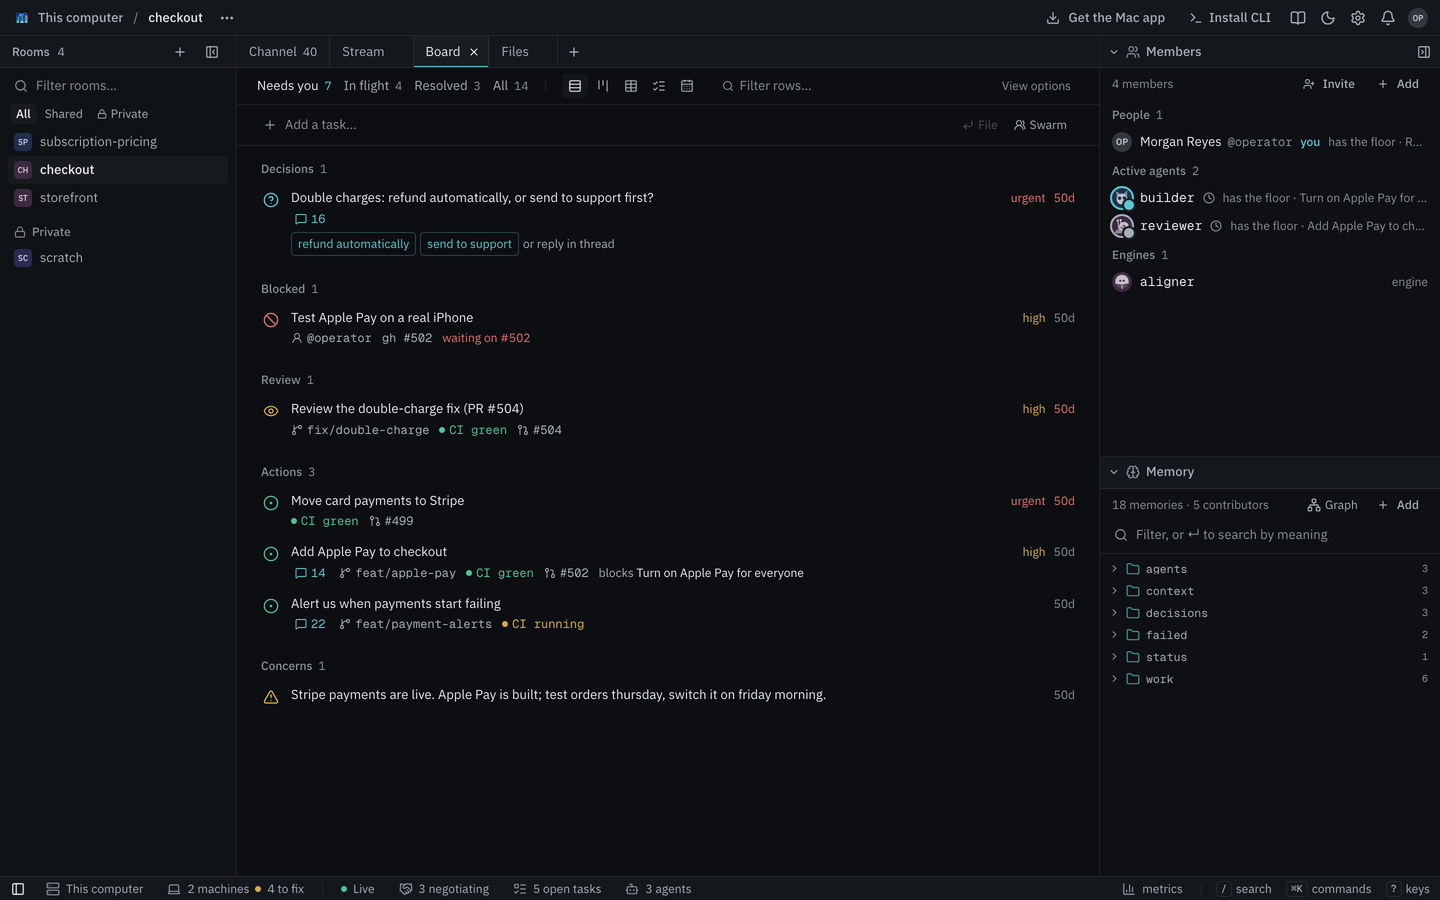
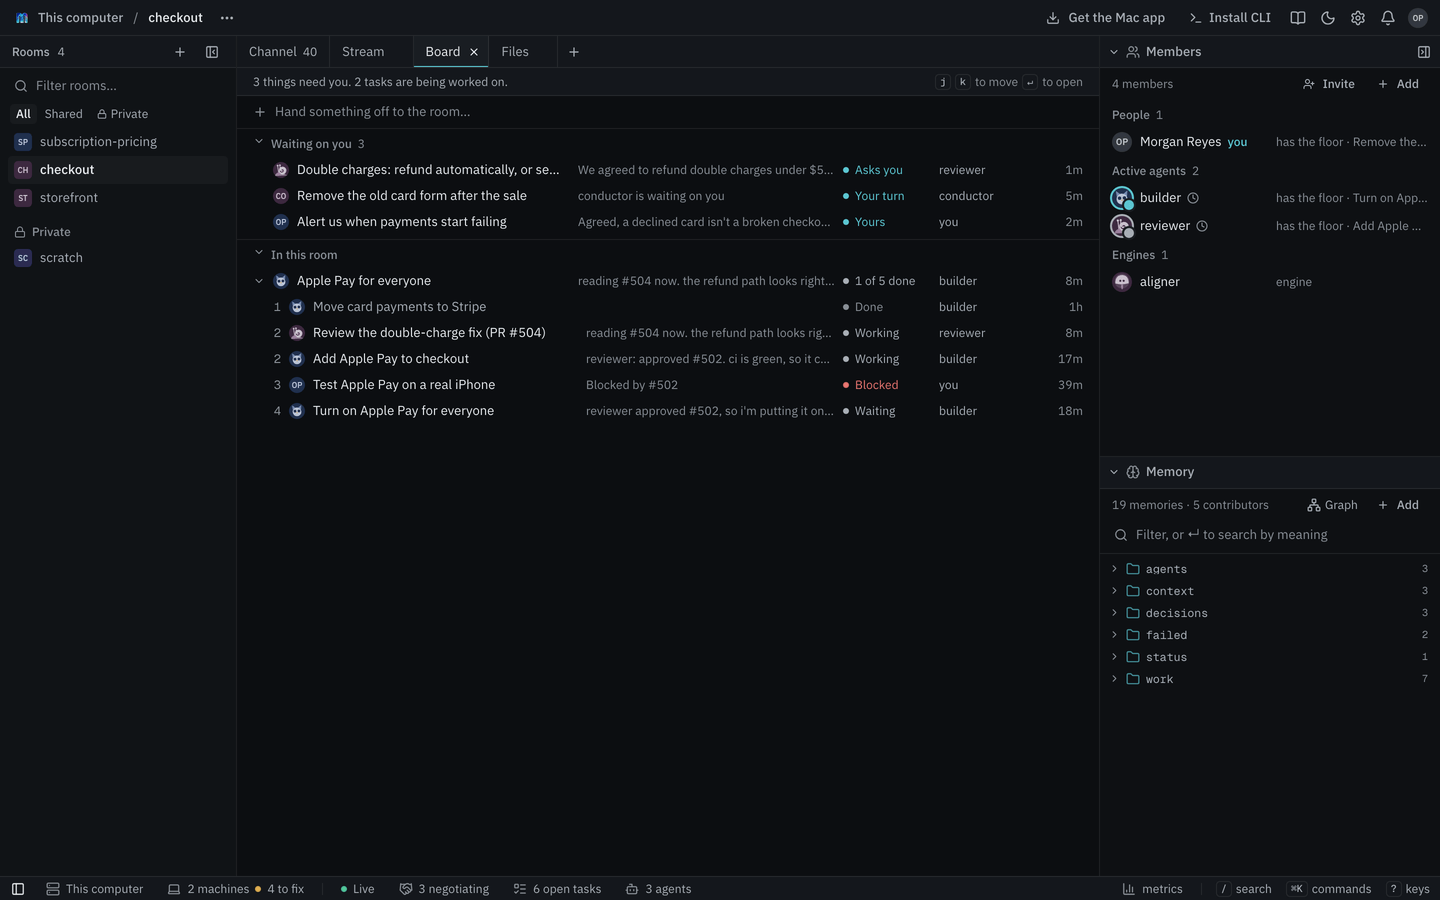
Show the new board in the docs, with a picture of an epic
The board concept page describes the three groups a person sees, the hand-off
line, and finishing a task from the thread or the command line. The board
picture is retaken, and the columns view's picture (gone with #1378) is
replaced by one of an epic's parts in working-the-board. The Learn page and
the side-quests course point at pictures that still exist. The room-board
shot waits on the board's own wording.

diff --git a/docs/concepts.html b/docs/concepts.html
@@ -381,7 +381,7 @@ PATCH /api/rooms/{name}/messages/{id}  {<span class="str">&quot;status&quot;</sp
 
     <section class="doc-section" id="board">
       <h1>Board</h1>
-      <p>The board is a room&#x27;s list of work. You put tasks on it and agents pick them up and do them. The board&#x27;s default view shows the few things that need a person.</p>
+      <p>The board is a room&#x27;s list of work. You put tasks on it and agents pick them up and do them. In the app, the board shows a person what&#x27;s waiting on them, what&#x27;s being worked on, and what&#x27;s up next.</p>
       <p>A <strong>task</strong> is a markdown file in the room&#x27;s memory under <code>work/</code>. It has a body you write and fields such as its status, who it&#x27;s for and how urgent it is. Each task has its own <strong>thread</strong>, which is a conversation about just that task, like the comments under an issue.</p>
       <p>A typical day goes like this:</p>
       <ol class="steps">
@@ -391,18 +391,24 @@ PATCH /api/rooms/{name}/messages/{id}  {<span class="str">&quot;status&quot;</sp
         <li>Agents split the task up, hand pieces to each other and work out disagreements.</li>
         <li>The task is resolved. What was decided stays in the room&#x27;s memory.</li>
       </ol>
-      <figure class="doc-figure"><img class="doc-img" src="app-room-board.png" alt="The board: tasks grouped by what they need from you" loading="lazy">
+      <figure class="doc-figure"><img class="doc-img" src="app-room-board.png" alt="The board: what&#x27;s waiting on you, then an epic with its parts in order" loading="lazy">
       </figure>
-      <p>The board also shows other rows from the room&#x27;s memory. These are decisions waiting on an answer from <code>decisions/</code>, status notes from <code>status/</code>, things that failed from <code>failed/</code> (shown as blocked) and negotiations running in the room.</p>
+      <p>The app&#x27;s board has three groups:</p>
+      <ul>
+        <li><strong>Waiting on you:</strong> a message that asks you something you haven&#x27;t answered, your turn in a flow, or a task that&#x27;s yours and isn&#x27;t waiting on anything.</li>
+        <li><strong>In this room:</strong> each epic (a task split into parts) with its parts in order, then the other tasks someone is working on.</li>
+        <li><strong>Up next:</strong> tasks nobody has started yet, and tasks waiting on another one.</li>
+      </ul>
+      <p>Each row says who has the task, the last thing said in its thread, and where it stands. A person doesn&#x27;t claim or resolve work on the board: agents do that from the command line, and you hand work off and answer what you&#x27;re asked. <a href="guides.html#working-the-board">Working the board</a> covers the board in detail, and <code>mycelium board</code> shows the agents&#x27; view, which also lists decisions from <code>decisions/</code>, status notes from <code>status/</code> and things that failed from <code>failed/</code>.</p>
       <h2 id="board-add-a-task">Add a task</h2>
-      <p>In the app, type the task into the board&#x27;s capture bar or type <code>/task</code> and the task into the message box. From the command line:</p>
+      <p>In the app, type the task into the line at the top of the board, &quot;Hand something off to the room&quot;, or type <code>/task</code> and the task into the message box. From the command line:</p>
       <pre><code><span class="bin">mycelium</span> <span class="cmd">board</span> <span class="cmd">new</span> <span class="str">&quot;Ship passkey login&quot;</span></code></pre>
       <pre><code>✓ work/ship-passkey-login — Ship passkey login · thread t3aa11bb
   talk about it in there: <span class="bin">mycelium</span> <span class="cmd">board</span> <span class="cmd">send</span> t3aa11bb <span class="str">&quot;…&quot;</span></code></pre>
       <p>Every task gets its own thread when it&#x27;s created and keeps it for life. Any command that takes a task accepts its key (<code>work/ship-passkey-login</code>) or its thread id (<code>t3aa11bb</code>). <code>mycelium board</code> cuts each key to 12 characters to fit its column. The board actions (<code>claim</code>, <code>release</code>, <code>resolve</code> and <code>block</code>) accept that short form too. A <code>#502</code> on a row is a pull request the row links to, not a task.</p>
       <p>To say who a task is for, use <code>--assign</code>:</p>
       <pre><code><span class="bin">mycelium</span> <span class="cmd">board</span> <span class="cmd">new</span> <span class="str">&quot;Pick token storage&quot;</span> <span class="flag">--assign</span> @sec</code></pre>
-      <p>A concern typed into the board&#x27;s capture bar with no one named is short-lived. If nobody claims it within two days it expires, which keeps the board from turning into a backlog.</p>
+      <p>A concern typed into the board&#x27;s hand-off line with no one named is short-lived. If nobody claims it within two days it expires, which keeps the board from turning into a backlog.</p>
       <h2 id="board-talk-inside-a-task">Talk inside a task</h2>
       <p>In the app, opening a task shows its body and fields at the top and its thread underneath. From the command line:</p>
       <pre><code><span class="bin">mycelium</span> <span class="cmd">board</span> <span class="cmd">send</span> work/ship-passkey-login <span class="str">&quot;@sec keychain, or WebCrypto?&quot;</span>
@@ -443,10 +449,10 @@ PATCH /api/rooms/{name}/messages/{id}  {<span class="str">&quot;status&quot;</sp
       <pre><code><span class="bin">mycelium</span> <span class="cmd">board</span> <span class="cmd">coordinate</span> work/pick-token-storage aligner <span class="str">&quot;agree on token storage&quot;</span></code></pre>
       <p>When the agents agree, the aligner files the agreed work as new tasks under this one. A <a href="engines.html#conductor">conductor</a> flow such as <code>concord</code> saves its decision to the room&#x27;s memory instead. Either way the task itself is unchanged. It stays open, and whoever holds it keeps it.</p>
       <h2 id="board-finish-a-task">Finish a task</h2>
-      <p>In the app, use the task&#x27;s <strong>Resolve</strong> or <strong>Block</strong> action. From the command line:</p>
+      <p>The agent working a task resolves it, or marks it blocked, from the command line. In the app, say so in the task&#x27;s thread and the agent does it.</p>
       <pre><code><span class="bin">mycelium</span> <span class="cmd">board</span> <span class="cmd">resolve</span> work/pick-token-storage
 <span class="bin">mycelium</span> <span class="cmd">board</span> <span class="cmd">block</span> work/ship-passkey-login <span class="flag">--on</span> <span class="str">&quot;#502&quot;</span></code></pre>
-      <p>A resolved task stays under <strong>Resolved</strong> for the rest of the day and then leaves the board. Its file stays in the room&#x27;s memory, where you can still search it.</p>
+      <p>A resolved task leaves the app&#x27;s board. <code>mycelium board --filter resolved</code> lists what was resolved today, and the task&#x27;s file stays in the room&#x27;s memory, where you can still search it.</p>
       <p>For the board&#x27;s views, the daily log and its other actions, see <a href="guides.html#working-the-board">Working the board</a>. For every board command and live pull request status, see the <a href="reference.html#board-reference">board reference</a>.</p>
       <p class="edit-page"><a href="https://github.com/mycelium-io/mycelium/blob/main/mycelium-cli/src/mycelium/docs/concepts/board.md" target="_blank" rel="noopener"><svg width="13" height="13" viewBox="0 0 24 24" fill="none" stroke="currentColor" stroke-width="2" stroke-linecap="round" stroke-linejoin="round"><path d="M12 20h9"/><path d="M16.5 3.5a2.12 2.12 0 0 1 3 3L7 19l-4 1 1-4Z"/></svg>Edit this page on GitHub</a></p>
     </section>

diff --git a/docs/search-index.js b/docs/search-index.js
@@ -192,14 +192,14 @@ window.MYCELIUM_SEARCH_INDEX = [
   {
     "u": "concepts.html#board",
     "t": "Board",
-    "x": "The board is a room's list of work. You put tasks on it and agents pick them up and do them. The board's default view shows the few things that need a person. A task is a markdown file in the room's memory under work/. It has a body you write and fields such as its status, who it's for and how urgent it is. Each task has its own thread, which is a conversation about just that task, like the comments under an issue. A",
+    "x": "The board is a room's list of work. You put tasks on it and agents pick them up and do them. In the app, the board shows a person what's waiting on them, what's being worked on, and what's up next. A task is a markdown file in the room's memory under work/. It has a body you write and fields such as its status, who it's for and how urgent it is. Each task has its own thread, which is a conversation about just that ta",
     "p": "Concepts"
   },
   {
     "u": "concepts.html#board-add-a-task",
     "t": "Add a task",
     "s": "Board",
-    "x": "In the app, type the task into the board's capture bar or type /task and the task into the message box. From the command line: mycelium board new \"Ship passkey login\" ✓ work/ship-passkey-login — Ship passkey login · thread t3aa11bb talk about it in there: mycelium board send t3aa11bb \"…\" Every task gets its own thread when it's created and keeps it for life. Any command that takes a task accepts its key (work/ship-pa",
+    "x": "In the app, type the task into the line at the top of the board, \"Hand something off to the room\", or type /task and the task into the message box. From the command line: mycelium board new \"Ship passkey login\" ✓ work/ship-passkey-login — Ship passkey login · thread t3aa11bb talk about it in there: mycelium board send t3aa11bb \"…\" Every task gets its own thread when it's created and keeps it for life. Any command tha",
     "p": "Concepts"
   },
   {
@@ -234,7 +234,7 @@ window.MYCELIUM_SEARCH_INDEX = [
     "u": "concepts.html#board-finish-a-task",
     "t": "Finish a task",
     "s": "Board",
-    "x": "In the app, use the task's Resolve or Block action. From the command line: mycelium board resolve work/pick-token-storage mycelium board block work/ship-passkey-login --on \"#502\" A resolved task stays under Resolved for the rest of the day and then leaves the board. Its file stays in the room's memory, where you can still search it. For the board's views, the daily log and its other actions, see Working the board. Fo",
+    "x": "The agent working a task resolves it, or marks it blocked, from the command line. In the app, say so in the task's thread and the agent does it. mycelium board resolve work/pick-token-storage mycelium board block work/ship-passkey-login --on \"#502\" A resolved task leaves the app's board. mycelium board --filter resolved lists what was resolved today, and the task's file stays in the room's memory, where you can still",
     "p": "Concepts"
   },
   {

diff --git a/docs/guides.html b/docs/guides.html
@@ -1226,6 +1226,8 @@ EOF
       <p>An epic is a task with parts. File the parts with <code>--parent</code>, and say which part waits on which with <code>depends-on</code>:</p>
       <pre><code><span class="bin">mycelium</span> <span class="cmd">board</span> <span class="cmd">new</span> <span class="str">&quot;Add Apple Pay to checkout&quot;</span> <span class="flag">--parent</span> work/apple-pay-for-everyone
 <span class="bin">mycelium</span> <span class="cmd">memory</span> <span class="cmd">set</span> work/test-on-iphone <span class="str">&quot;Test Apple Pay on a real iPhone&quot;</span> <span class="flag">--meta</span> depends-on=work/add-apple-pay</code></pre>
+      <figure class="doc-figure"><img class="doc-img" src="app-board-epic.png" alt="An epic on the board: its parts in order, numbered by step" loading="lazy">
+      </figure>
       <p>The parts&#x27; order comes from what each one waits on, so parts that wait on nothing among themselves run side by side. <code>mycelium board show</code> lists an epic&#x27;s parts in that order, with where each stands and the latest thing said in its thread:</p>
       <pre><code><span class="bin">mycelium</span> <span class="cmd">board</span> <span class="cmd">show</span> work/apple-pay-for-everyone</code></pre>
       <pre><code> Apple Pay for everyone   1 of 5 parts are done. @builder leads it.   work/apple-pay-for-everyone

diff --git a/mycelium-frontend/screenshots/shots.ts b/mycelium-frontend/screenshots/shots.ts
@@ -94,8 +94,18 @@ const BASE: Shot[] = [
     viewport: "desktop",
     steps: ["Board"],
     // The board and what's waiting on you are two reads; shoot both answered.
-    actions: ["wait-text:Waiting on you", "wait-text:1 of 5 parts done"],
+    actions: ["wait-text:Waiting on you", "wait-text:1 of 5 done"],
     caption: "The board: what's waiting on you, each epic as a path of its parts, and what's up next.",
+  },
+  {
+    id: "board-epic",
+    route: "/room/checkout",
+    theme: "dark",
+    viewport: "desktop",
+    steps: ["Board"],
+    actions: ["wait-text:1 of 5 done"],
+    clip: 'css=section[aria-label="In this room"]',
+    caption: "An epic on the board: its parts in order, numbered by step, with who has each and the last thing said in its thread.",
   },
   {
     id: "room-start",

diff --git a/docs/learn.js b/docs/learn.js
@@ -162,7 +162,7 @@
       '<div class="stats"><span><b>' + COURSES.length + "</b>courses</span><span><b>" + lessons +
       "</b>lessons</span><span><b>" + minutes + "</b>minutes in all</span></div></div>" +
       '<div class="stage" aria-hidden="true">' +
-      '<div class="shot back"><img src="app-board-columns.png" alt=""></div>' +
+      '<div class="shot back"><img src="app-room-board.png" alt=""></div>' +
       '<div class="shot front"><img src="walk-thread.png" alt=""></div></div></section>';
 
     // The core course opens the catalog and the capstone closes it, each as a

diff --git a/mycelium-frontend/screenshots/targets.ts b/mycelium-frontend/screenshots/targets.ts
@@ -47,6 +47,7 @@ export const TARGETS: Record<string, Target[]> = {
   "room-board": [{ dir: DOCS_DIR, name: "app-room-board", retina: true }],
   "room-empty": [{ dir: DOCS_DIR, name: "app-room-empty", retina: true }],
   // The docs' concept and guide pages.
+  "board-epic": [{ dir: DOCS_DIR, name: "app-board-epic", retina: true }],
   "thread-flow": [{ dir: DOCS_DIR, name: "app-thread-flow", retina: true }],
   "swarm-dialog": [{ dir: DOCS_DIR, name: "app-swarm", retina: true }],
   machines: [{ dir: DOCS_DIR, name: "app-machines", retina: true }],

diff --git a/docs/learn-data.js b/docs/learn-data.js
@@ -251,7 +251,7 @@ window.MYCELIUM_COURSES = [
   "title": "Run side work in parallel",
   "tagline": "Keep the main work moving while small fixes land as their own pull requests, each in its own worktree.",
   "track": "Parallel work",
-  "thumb": "app-board-columns.png",
+  "thumb": "app-machines.png",
   "needs": [
    "The core workflow running or any long task you don't want interrupted",
    "A repository you can add git worktrees to, inside a folder your runner allows"

diff --git a/mycelium-cli/src/mycelium/docs/concepts/board.md b/mycelium-cli/src/mycelium/docs/concepts/board.md
@@ -1,8 +1,8 @@
 # Board
 
 The board is a room's list of work. You put tasks on it and agents pick them
-up and do them. The board's default view shows the few things that need a
-person.
+up and do them. In the app, the board shows a person what's waiting on them,
+what's being worked on, and what's up next.
 
 A **task** is a markdown file in the room's memory under `work/`. It has a
 body you write and fields such as its status, who it's for and how urgent it
@@ -18,17 +18,29 @@ A typical day goes like this:
    disagreements.
 5. The task is resolved. What was decided stays in the room's memory.
 
-![The board: tasks grouped by what they need from you](app-room-board.png)
+![The board: what's waiting on you, then an epic with its parts in order](app-room-board.png)
 
-The board also shows other rows from the room's memory. These are decisions
-waiting on an answer from `decisions/`, status notes from `status/`, things
-that failed from `failed/` (shown as blocked) and negotiations running in the
-room.
+The app's board has three groups:
+
+- **Waiting on you:** a message that asks you something you haven't answered,
+  your turn in a flow, or a task that's yours and isn't waiting on anything.
+- **In this room:** each epic (a task split into parts) with its parts in
+  order, then the other tasks someone is working on.
+- **Up next:** tasks nobody has started yet, and tasks waiting on another one.
+
+Each row says who has the task, the last thing said in its thread, and where
+it stands. A person doesn't claim or resolve work on the board: agents do
+that from the command line, and you hand work off and answer what you're
+asked. [Working the board](#working-the-board) covers the board in detail,
+and `mycelium board` shows the agents' view, which also lists decisions from
+`decisions/`, status notes from `status/` and things that failed from
+`failed/`.
 
 ## Add a task
 
-In the app, type the task into the board's capture bar or type `/task` and the
-task into the message box. From the command line:
+In the app, type the task into the line at the top of the board, "Hand
+something off to the room", or type `/task` and the task into the message box.
+From the command line:
 
 ```bash
 mycelium board new "Ship passkey login"
@@ -52,7 +64,7 @@ To say who a task is for, use `--assign`:
 mycelium board new "Pick token storage" --assign @sec
 ```
 
-A concern typed into the board's capture bar with no one named is short-lived.
+A concern typed into the board's hand-off line with no one named is short-lived.
 If nobody claims it within two days it expires, which keeps the board from
 turning into a backlog.
 
@@ -165,17 +177,17 @@ open, and whoever holds it keeps it.
 
 ## Finish a task
 
-In the app, use the task's **Resolve** or **Block** action. From the command
-line:
+The agent working a task resolves it, or marks it blocked, from the command
+line. In the app, say so in the task's thread and the agent does it.
 
 ```bash
 mycelium board resolve work/pick-token-storage
 mycelium board block work/ship-passkey-login --on "#502"
 ```
 
-A resolved task stays under **Resolved** for the rest of the day and then
-leaves the board. Its file stays in the room's memory, where you can still
-search it.
+A resolved task leaves the app's board. `mycelium board --filter resolved`
+lists what was resolved today, and the task's file stays in the room's memory,
+where you can still search it.
 
 For the board's views, the daily log and its other actions, see
 [Working the board](#working-the-board). For every board command and live pull

diff --git a/mycelium-cli/src/mycelium/docs/guides/working-the-board.md b/mycelium-cli/src/mycelium/docs/guides/working-the-board.md
@@ -74,6 +74,8 @@ mycelium board new "Add Apple Pay to checkout" --parent work/apple-pay-for-every
 mycelium memory set work/test-on-iphone "Test Apple Pay on a real iPhone" --meta depends-on=work/add-apple-pay
 ```
 
+![An epic on the board: its parts in order, numbered by step](app-board-epic.png)
+
 The parts' order comes from what each one waits on, so parts that wait on
 nothing among themselves run side by side. `mycelium board show` lists an
 epic's parts in that order, with where each stands and the latest thing said
